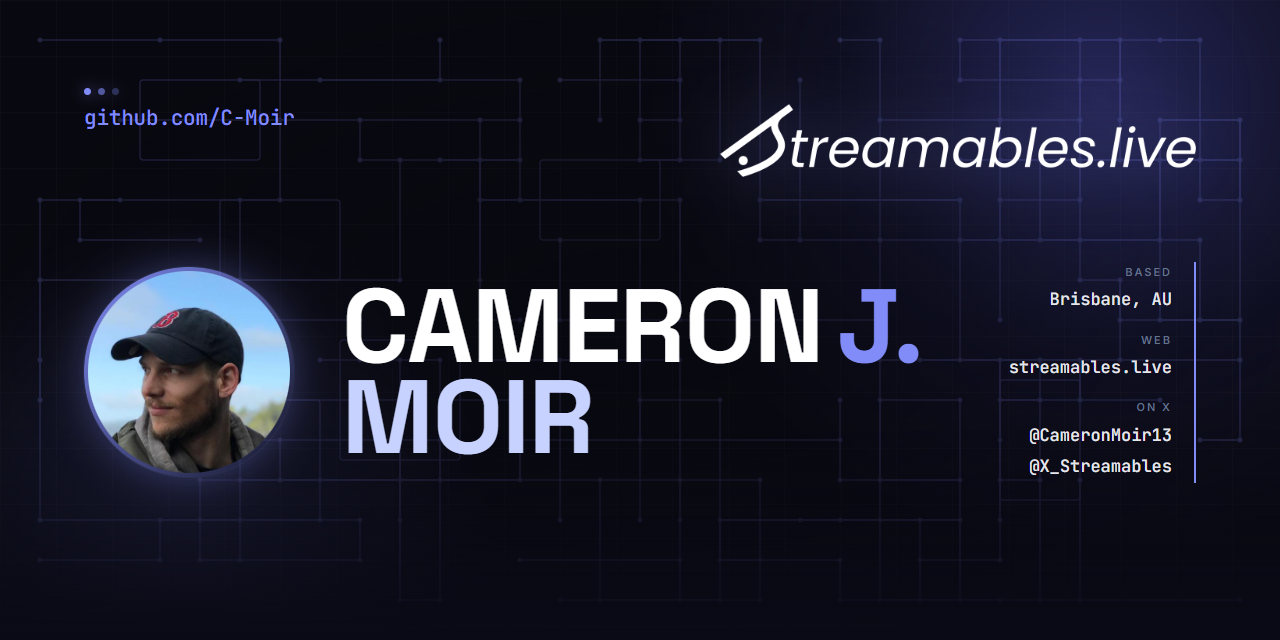
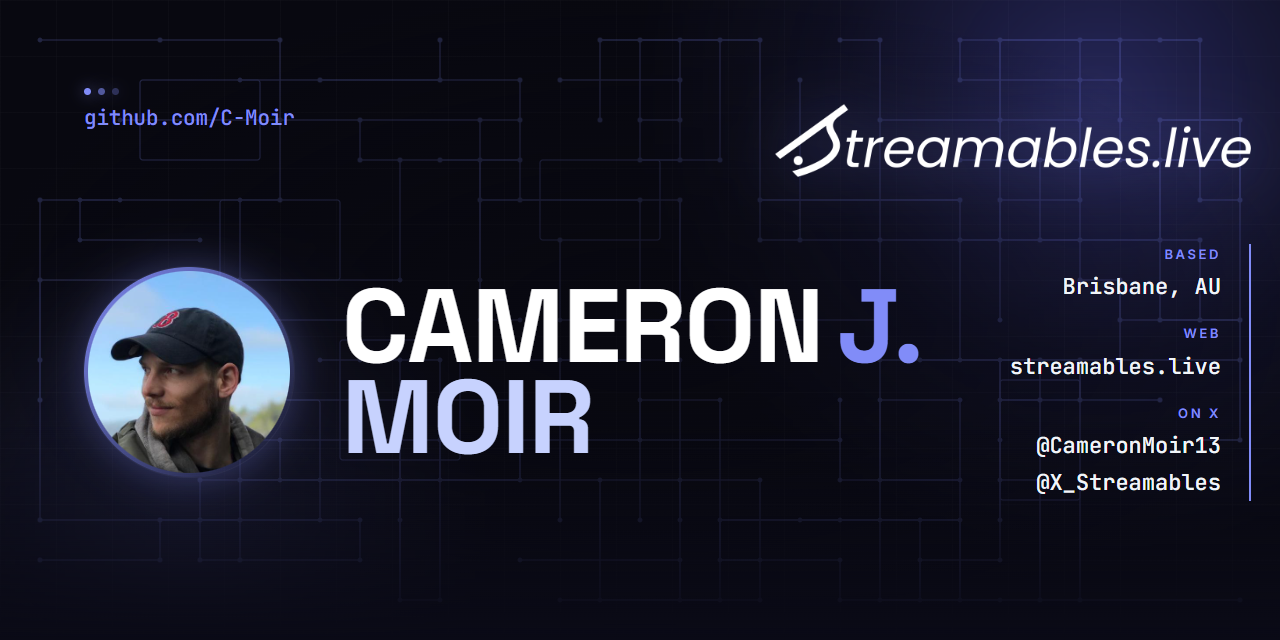
social-preview: bump right-column typography for readability
Info stack was rendering too small and reading as pixelated on the
exported PNG. Fixes:

- Values: 17px -> 22px, colour bumped from #cbd5e1 to #f1f5f9 so they
  pop cleaner against the dark bg
- Labels: 11px -> 13px, switched from slate-500 to indigo-400 (#818cf8)
  weight 700, so they read as proper section headers rather than
  fading out
- Line-height tightened from 1.85 to 1.65 - the larger values didn't
  need as much breathing room
- min-width 220px -> 280px, padding-right 22px -> 28px to accommodate
  the new size
- Added -webkit-font-smoothing: antialiased + text-rendering:
  optimizeLegibility on body so all text renders crisper in the PNG
  output

Changed region(s): [[0.5625, 0.1562, 1.0, 0.2812], [0.7812, 0.625, 0.9688, 0.7812], [0.7812, 0.375, 0.9688, 0.5938]]

diff --git a/preview/social-preview.html b/preview/social-preview.html
@@ -22,6 +22,9 @@
     display: grid;
     grid-template-rows: auto 1fr;
     row-gap: 0;
+    -webkit-font-smoothing: antialiased;
+    -moz-osx-font-smoothing: grayscale;
+    text-rendering: optimizeLegibility;
   }
 
   /* Layer 1: Faint base grid for depth */
@@ -187,26 +190,27 @@
   .info-stack {
     text-align: right;
     font-family: 'JetBrains Mono', ui-monospace, monospace;
-    font-size: 17px;
-    line-height: 1.85;
+    font-size: 22px;
+    line-height: 1.65;
     color: #cbd5e1;
     border-right: 2px solid #818cf8;
-    padding-right: 22px;
-    min-width: 220px;
+    padding-right: 28px;
+    min-width: 280px;
+    font-weight: 500;
   }
   .info-stack .label {
-    color: #64748b;
-    font-size: 11px;
+    color: #818cf8;
+    font-size: 13px;
     text-transform: uppercase;
-    letter-spacing: 0.18em;
-    font-weight: 600;
+    letter-spacing: 0.2em;
+    font-weight: 700;
     font-family: 'Inter', sans-serif;
-    margin-bottom: 2px;
-    margin-top: 14px;
+    margin-bottom: 4px;
+    margin-top: 18px;
   }
   .info-stack .label:first-child { margin-top: 0; }
   .info-stack .value {
-    color: #e5e7eb;
+    color: #f1f5f9;
     font-weight: 500;
   }
 </style>
